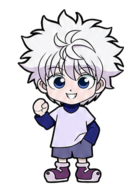
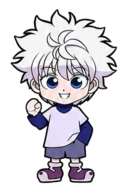
Add draggable gravity Killua launcher

diff --git a/src/components/AiAssistant.tsx b/src/components/AiAssistant.tsx
@@ -1,8 +1,9 @@
 // @ts-nocheck
 import { useEffect, useMemo, useRef, useState } from 'react'
 import { AnimatePresence, motion } from 'framer-motion'
-import killuaIdleSprite from '../assets/killua-ai/killua-idle-stable.png'
-import killuaDizzySprite from '../assets/killua-ai/killua-dizzy.png'
+import killuaIdleOpen from '../assets/killua-ai/killua-idle-still.png'
+import killuaIdleBlink from '../assets/killua-ai/killua-idle-blink.png'
+import killuaDizzySprite from '../assets/killua-ai/killua-dizzy-stable.png'
 import './AiAssistant.css'
 
 const initialMessages = [
@@ -20,17 +21,25 @@ const suggestions = [
 
 const DIZZY_DURATION_MS = 2300
 const SHAKE_RESET_MS = 520
+const DRAG_START_DISTANCE = 6
+const LAUNCHER_GRAVITY = 2200
+const LAUNCHER_HORIZONTAL_SPRING = 24
+const LAUNCHER_DAMPING = 0.82
+const LAUNCHER_FLOOR_BOUNCE = 0.28
 
 const AssistantMark = ({ compact = false, isDizzy = false }) => (
   <span
     className={`ai-mark killua-ai-mark ${compact ? 'compact' : ''} ${isDizzy ? 'is-dizzy' : 'is-idle'}`}
     style={{
-      '--killua-idle-sheet': `url(${killuaIdleSprite})`,
+      '--killua-idle-open': `url(${killuaIdleOpen})`,
+      '--killua-idle-blink': `url(${killuaIdleBlink})`,
       '--killua-dizzy-sheet': `url(${killuaDizzySprite})`
     }}
     aria-hidden="true"
   >
-    <span className="killua-sprite" />
+    <span className="killua-sprite killua-sprite-idle" />
+    <span className="killua-sprite killua-sprite-blink" />
+    <span className="killua-sprite killua-sprite-dizzy" />
   </span>
 )
 
@@ -60,7 +69,24 @@ const AiAssistant = () => {
   const [input, setInput] = useState('')
   const [isLoading, setIsLoading] = useState(false)
   const [isDizzy, setIsDizzy] = useState(false)
+  const [launcherOffset, setLauncherOffsetState] = useState({ x: 0, y: 0 })
+  const [isLauncherGrabbed, setIsLauncherGrabbed] = useState(false)
   const inputRef = useRef(null)
+  const launcherOffsetRef = useRef({ x: 0, y: 0 })
+  const dropAnimationRef = useRef(null)
+  const dragRef = useRef({
+    pointerId: null,
+    startX: 0,
+    startY: 0,
+    originX: 0,
+    originY: 0,
+    lastOffsetX: 0,
+    lastOffsetY: 0,
+    lastTime: 0,
+    vx: 0,
+    vy: 0,
+    hasDragged: false
+  })
   const shakeRef = useRef({
     lastX: null,
     lastY: null,
@@ -72,6 +98,89 @@ const AiAssistant = () => {
     blockClick: false,
     blockClickTimeout: null
   })
+
+  const clampLauncherOffset = (x, y) => {
+    const viewportWidth = window.innerWidth || 1024
+    const viewportHeight = window.innerHeight || 768
+    const maxLeft = Math.max(0, viewportWidth - 132)
+    const maxUp = Math.max(0, viewportHeight - 172)
+
+    return {
+      x: Math.min(16, Math.max(-maxLeft, x)),
+      y: Math.min(22, Math.max(-maxUp, y))
+    }
+  }
+
+  const setLauncherOffset = (nextOffset) => {
+    const roundedOffset = {
+      x: Math.round(nextOffset.x),
+      y: Math.round(nextOffset.y)
+    }
+
+    launcherOffsetRef.current = roundedOffset
+    setLauncherOffsetState(roundedOffset)
+  }
+
+  const cancelDropAnimation = () => {
+    if (!dropAnimationRef.current) return
+
+    window.cancelAnimationFrame(dropAnimationRef.current)
+    dropAnimationRef.current = null
+  }
+
+  const blockNextClick = (duration = 420) => {
+    const tracker = shakeRef.current
+    tracker.blockClick = true
+
+    if (tracker.blockClickTimeout) window.clearTimeout(tracker.blockClickTimeout)
+    tracker.blockClickTimeout = window.setTimeout(() => {
+      tracker.blockClick = false
+    }, duration)
+  }
+
+  const startDropAnimation = ({ vx = 0, vy = 0 } = {}) => {
+    cancelDropAnimation()
+
+    let x = launcherOffsetRef.current.x
+    let y = launcherOffsetRef.current.y
+    let velocityX = Math.max(-1400, Math.min(1400, vx))
+    let velocityY = Math.max(-1600, Math.min(1600, vy))
+    let previousTime = performance.now()
+
+    const step = (time) => {
+      const deltaSeconds = Math.min(0.032, Math.max(0.001, (time - previousTime) / 1000))
+      previousTime = time
+
+      velocityY += LAUNCHER_GRAVITY * deltaSeconds
+      velocityX += -x * LAUNCHER_HORIZONTAL_SPRING * deltaSeconds
+      velocityX *= LAUNCHER_DAMPING
+
+      x += velocityX * deltaSeconds
+      y += velocityY * deltaSeconds
+
+      if (y > 0) {
+        y = 0
+        velocityY = Math.abs(velocityY) > 120 ? -velocityY * LAUNCHER_FLOOR_BOUNCE : 0
+      }
+
+      const clampedOffset = clampLauncherOffset(x, y)
+      if (clampedOffset.x !== x) velocityX = 0
+      if (clampedOffset.y !== y && clampedOffset.y < 0) velocityY = 0
+      x = clampedOffset.x
+      y = clampedOffset.y
+
+      if (Math.abs(x) < 1 && Math.abs(velocityX) < 16 && y === 0 && Math.abs(velocityY) < 16) {
+        setLauncherOffset({ x: 0, y: 0 })
+        dropAnimationRef.current = null
+        return
+      }
+
+      setLauncherOffset({ x, y })
+      dropAnimationRef.current = window.requestAnimationFrame(step)
+    }
+
+    dropAnimationRef.current = window.requestAnimationFrame(step)
+  }
 
   const resetShakeTracker = () => {
     const tracker = shakeRef.current
@@ -90,12 +199,7 @@ const AiAssistant = () => {
   const triggerDizzy = () => {
     const tracker = shakeRef.current
     resetShakeTracker()
-    tracker.blockClick = true
-
-    if (tracker.blockClickTimeout) window.clearTimeout(tracker.blockClickTimeout)
-    tracker.blockClickTimeout = window.setTimeout(() => {
-      tracker.blockClick = false
-    }, 420)
+    blockNextClick()
 
     setIsDizzy(true)
 
@@ -145,6 +249,84 @@ const AiAssistant = () => {
     }
   }
 
+  const handleLauncherPointerDown = (event) => {
+    cancelDropAnimation()
+    handleShakePointerDown(event)
+
+    const drag = dragRef.current
+    const offset = launcherOffsetRef.current
+    drag.pointerId = event.pointerId
+    drag.startX = event.clientX
+    drag.startY = event.clientY
+    drag.originX = offset.x
+    drag.originY = offset.y
+    drag.lastOffsetX = offset.x
+    drag.lastOffsetY = offset.y
+    drag.lastTime = performance.now()
+    drag.vx = 0
+    drag.vy = 0
+    drag.hasDragged = false
+
+    event.currentTarget.setPointerCapture?.(event.pointerId)
+  }
+
+  const handleLauncherPointerMove = (event) => {
+    handleShakePointerMove(event)
+
+    const drag = dragRef.current
+    if (drag.pointerId !== event.pointerId) return
+
+    const pointerDx = event.clientX - drag.startX
+    const pointerDy = event.clientY - drag.startY
+
+    if (!drag.hasDragged && Math.hypot(pointerDx, pointerDy) > DRAG_START_DISTANCE) {
+      drag.hasDragged = true
+      setIsLauncherGrabbed(true)
+    }
+
+    if (!drag.hasDragged) return
+
+    event.preventDefault()
+
+    const nextOffset = clampLauncherOffset(drag.originX + pointerDx, drag.originY + pointerDy)
+    const now = performance.now()
+    const deltaSeconds = Math.min(0.05, Math.max(0.001, (now - drag.lastTime) / 1000))
+
+    drag.vx = (nextOffset.x - drag.lastOffsetX) / deltaSeconds
+    drag.vy = (nextOffset.y - drag.lastOffsetY) / deltaSeconds
+    drag.lastOffsetX = nextOffset.x
+    drag.lastOffsetY = nextOffset.y
+    drag.lastTime = now
+
+    setLauncherOffset(nextOffset)
+  }
+
+  const handleLauncherPointerEnd = (event) => {
+    const drag = dragRef.current
+    const wasDragged = drag.pointerId === event.pointerId && drag.hasDragged
+
+    if (drag.pointerId === event.pointerId) {
+      if (event.currentTarget.hasPointerCapture?.(event.pointerId)) {
+        event.currentTarget.releasePointerCapture?.(event.pointerId)
+      }
+      drag.pointerId = null
+    }
+
+    resetShakeTracker()
+    setIsLauncherGrabbed(false)
+
+    if (wasDragged) {
+      blockNextClick(520)
+      startDropAnimation({ vx: drag.vx, vy: drag.vy })
+    }
+
+    drag.hasDragged = false
+  }
+
+  const handleLauncherPointerLeave = () => {
+    if (dragRef.current.pointerId === null) resetShakeTracker()
+  }
+
   const handleToggleClick = (event) => {
     if (shakeRef.current.blockClick) {
       event.preventDefault()
@@ -160,6 +342,7 @@ const AiAssistant = () => {
     if (tracker.resetTimeout) window.clearTimeout(tracker.resetTimeout)
     if (tracker.dizzyTimeout) window.clearTimeout(tracker.dizzyTimeout)
     if (tracker.blockClickTimeout) window.clearTimeout(tracker.blockClickTimeout)
+    if (dropAnimationRef.current) window.cancelAnimationFrame(dropAnimationRef.current)
   }, [])
 
   useEffect(() => {
@@ -311,12 +494,15 @@ const AiAssistant = () => {
       </AnimatePresence>
 
       <button
-        className="ai-toggle"
+        className={`ai-toggle ${isLauncherGrabbed ? 'is-grabbed' : ''} ${launcherOffset.y < -8 ? 'is-lifted' : ''}`}
         type="button"
+        style={{ transform: `translate3d(${launcherOffset.x}px, ${launcherOffset.y}px, 0)` }}
         onClick={handleToggleClick}
-        onPointerDown={handleShakePointerDown}
-        onPointerMove={handleShakePointerMove}
-        onPointerLeave={resetShakeTracker}
+        onPointerDown={handleLauncherPointerDown}
+        onPointerMove={handleLauncherPointerMove}
+        onPointerUp={handleLauncherPointerEnd}
+        onPointerCancel={handleLauncherPointerEnd}
+        onPointerLeave={handleLauncherPointerLeave}
         aria-label="Open AI assistant"
       >
         <AssistantMark isDizzy={isDizzy} />

diff --git a/src/components/AiAssistant.css b/src/components/AiAssistant.css
@@ -28,6 +28,19 @@
   cursor: pointer;
   overflow: visible;
   touch-action: none;
+  user-select: none;
+  will-change: transform;
+  -webkit-user-drag: none;
+}
+
+.ai-toggle.is-grabbed {
+  cursor: grabbing;
+}
+
+.ai-toggle.is-lifted .killua-sprite {
+  filter:
+    drop-shadow(0 16px 14px rgba(0, 0, 0, 0.5))
+    drop-shadow(0 0 12px rgba(0, 209, 255, 0.14));
 }
 
 .ai-toggle:focus-visible {
@@ -75,15 +88,31 @@
   z-index: 2;
   width: 31px;
   height: 46.5px;
-  background-image: var(--killua-idle-sheet);
   background-repeat: no-repeat;
-  background-size: 400% 400%;
-  background-position: 0% 0%;
+  background-size: contain;
+  background-position: center bottom;
   filter: drop-shadow(0 6px 8px rgba(0, 0, 0, 0.48));
   pointer-events: none;
   transform: translateX(-50%);
   transform-origin: 50% 82%;
-  animation: killuaIdleFrames 1.45s steps(1, end) infinite;
+  opacity: 1;
+}
+
+.killua-sprite-idle {
+  background-image: var(--killua-idle-open);
+}
+
+.killua-sprite-blink {
+  background-image: var(--killua-idle-blink);
+  opacity: 0;
+  animation: killuaBlink 3.4s steps(1, end) infinite;
+}
+
+.killua-sprite-dizzy {
+  background-image: var(--killua-dizzy-sheet);
+  background-size: 400% 200%;
+  background-position: 0% 0%;
+  opacity: 0;
 }
 
 .ai-mark.compact .killua-sprite {
@@ -101,49 +130,22 @@
 }
 
 .ai-mark.is-dizzy .killua-sprite {
-  background-image: var(--killua-dizzy-sheet);
-  background-size: 400% 200%;
-  background-position: 0% 0%;
-  animation:
-    killuaDizzyFrames 0.72s steps(1, end) infinite,
-    killuaDizzyWobble 0.44s ease-in-out infinite;
+  animation: none;
 }
 
-@keyframes killuaDizzyWobble {
-  0%, 100% {
-    transform: translateX(-50%) rotate(-4deg);
-  }
-
-  25% {
-    transform: translateX(-52%) rotate(5deg);
-  }
-
-  50% {
-    transform: translateX(-48%) rotate(-6deg);
-  }
-
-  75% {
-    transform: translateX(-51%) rotate(4deg);
-  }
+.ai-mark.is-dizzy .killua-sprite-idle,
+.ai-mark.is-dizzy .killua-sprite-blink {
+  opacity: 0;
 }
 
-@keyframes killuaIdleFrames {
-  0%, 6.24% { background-position: 0% 0%; }
-  6.25%, 12.49% { background-position: 33.333% 0%; }
-  12.5%, 18.74% { background-position: 66.667% 0%; }
-  18.75%, 24.99% { background-position: 100% 0%; }
-  25%, 31.24% { background-position: 0% 33.333%; }
-  31.25%, 37.49% { background-position: 33.333% 33.333%; }
-  37.5%, 43.74% { background-position: 66.667% 33.333%; }
-  43.75%, 49.99% { background-position: 100% 33.333%; }
-  50%, 56.24% { background-position: 0% 66.667%; }
-  56.25%, 62.49% { background-position: 33.333% 66.667%; }
-  62.5%, 68.74% { background-position: 66.667% 66.667%; }
-  68.75%, 74.99% { background-position: 100% 66.667%; }
-  75%, 81.24% { background-position: 0% 100%; }
-  81.25%, 87.49% { background-position: 33.333% 100%; }
-  87.5%, 93.74% { background-position: 66.667% 100%; }
-  93.75%, 100% { background-position: 100% 100%; }
+.ai-mark.is-dizzy .killua-sprite-dizzy {
+  opacity: 1;
+  animation: killuaDizzyFrames 0.72s steps(1, end) infinite;
+}
+
+@keyframes killuaBlink {
+  0%, 72.9%, 75.1%, 78.9%, 100% { opacity: 0; }
+  73%, 75%, 79%, 81% { opacity: 1; }
 }
 
 @keyframes killuaDizzyFrames {
